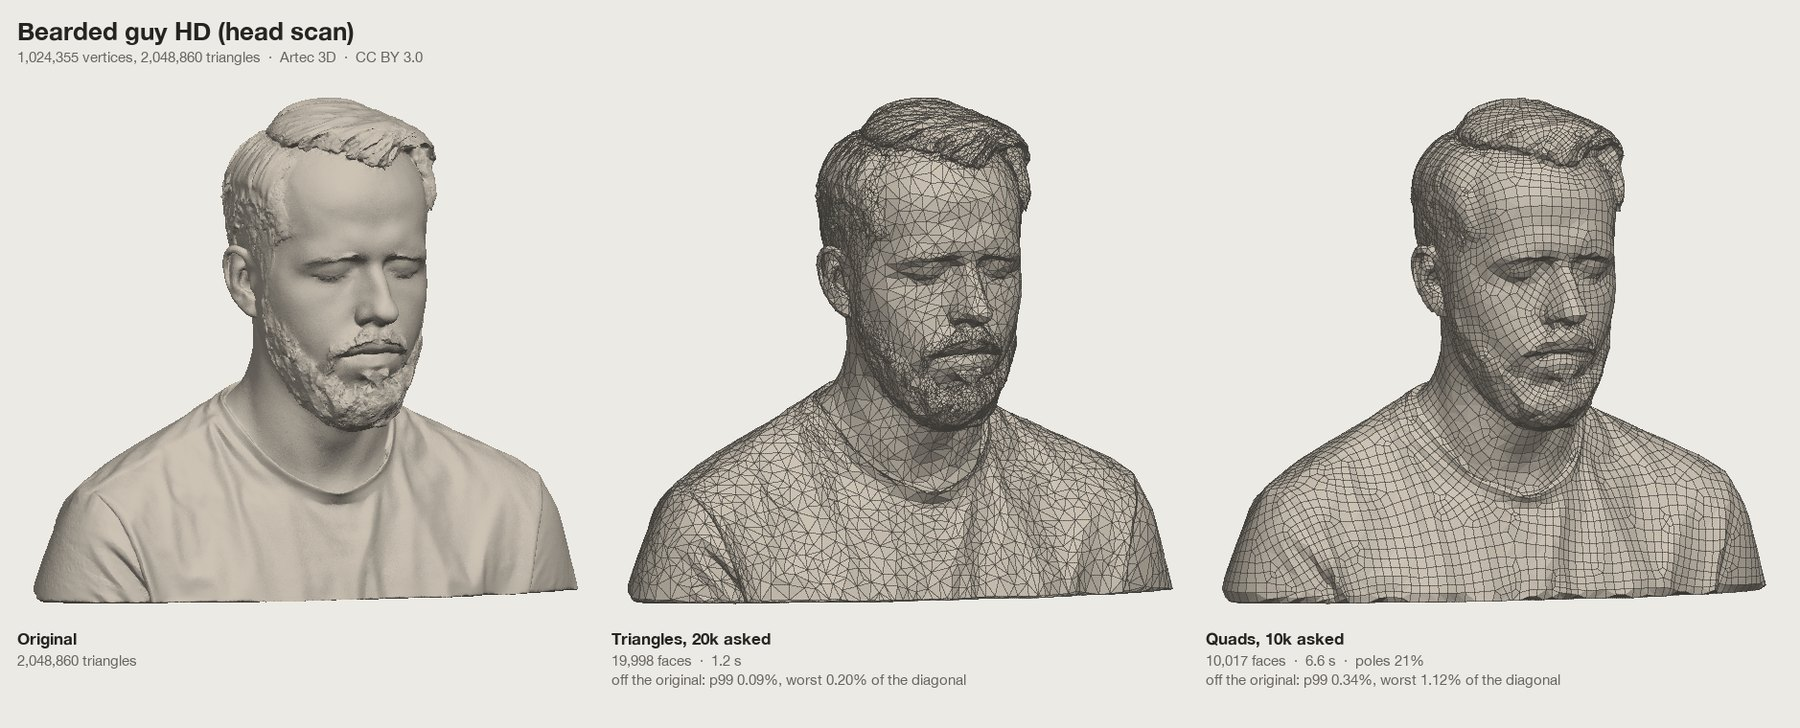
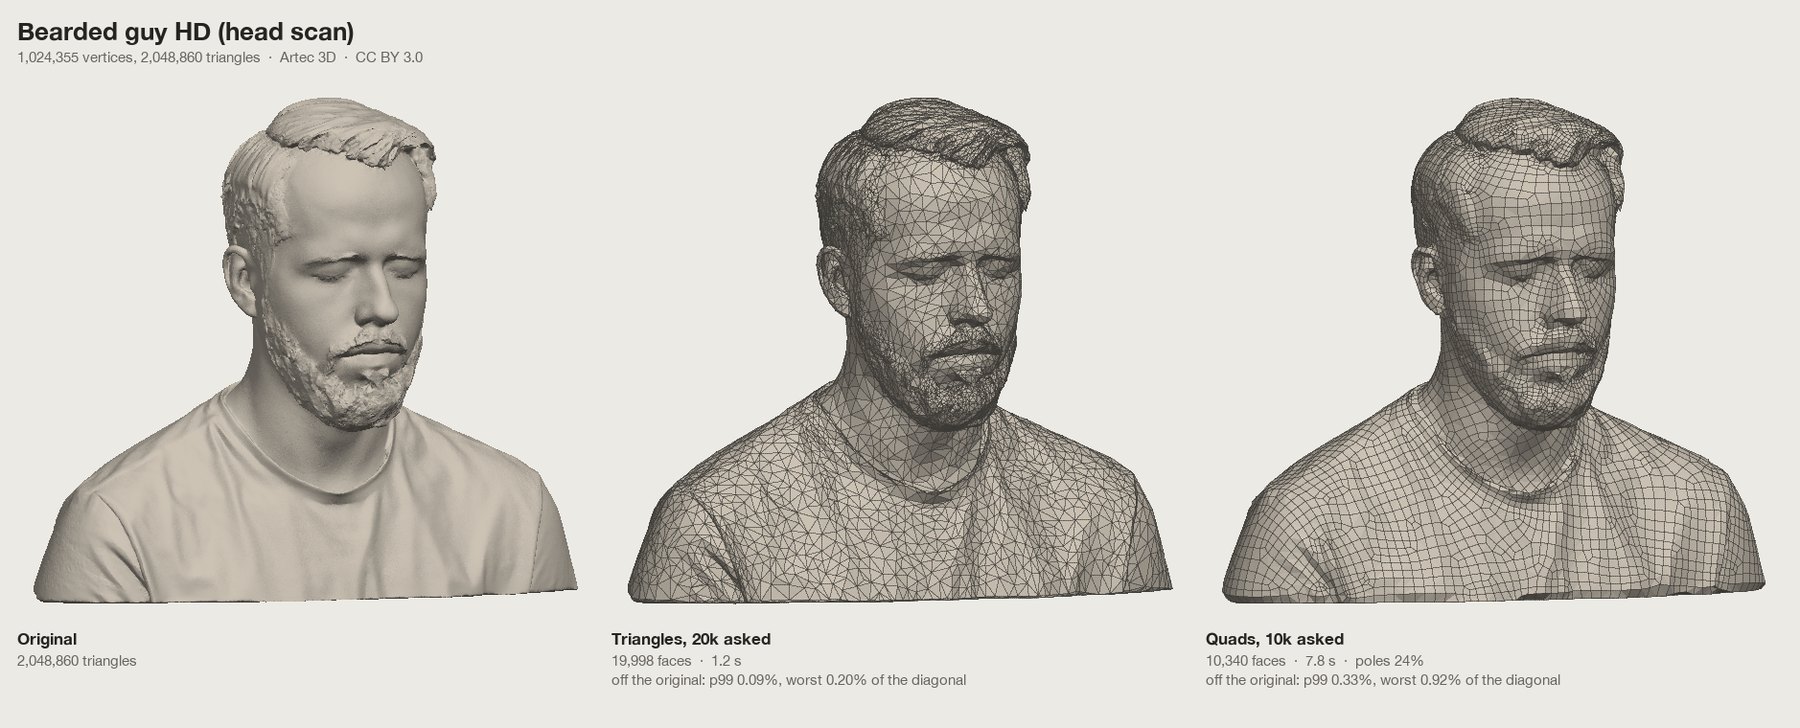
Faster thickness analysis, and the body scan measured
The thickness rays took most of the form analysis on large scans: on the
5M-triangle lion 1.5 s of rays for 93,000 patches. Rays now stop at
0.06 of the square root of the surface area (a part that thick is past
the longest edge 1,700 faces or more would ask for), and a patch stops
after three misses, which already settle its median. Results are
identical on the lion, the body scan and the car; the lion's analysis
takes 3.2 s instead of 4.9 (1.8 s before thickness).

- manifest.json: Blender Studio's realistic female base mesh measured
  (2,709,762 vertices, mirror plane x = -1.34008, checksum pinned).
- README examples redrawn with Keep thin parts on (the default), and the
  timing line updated from the last core bench.

Changed region(s): [[0.6844, 0.1209, 0.9956, 0.8462]]

diff --git a/index.html b/index.html
@@ -3348,13 +3348,18 @@ function formAnalysis(P, index, N, A, opt = {}) {
   const T = index.length / 3, diag = Math.hypot(x1 - x0, y1 - y0, z1 - z0) || 1;
   const rays = new SurfaceGrid(P, index, 2 * Math.sqrt((4 * area) / (Math.sqrt(3) * Math.max(1, T))));
   // Up to five members per cluster, each along its own normal; the median of their hits (a miss counts as none), and no
-  // thickness unless most of them hit: on a scanned beard single rays met the fringes of the noise.
-  const thick = new Float32Array(C), got = new Uint8Array(C), hits = new Float32Array(C * 5);
+  // thickness unless most of them hit: on a scanned beard single rays met the fringes of the noise. Rays stop at 0.06 √area:
+  // a part that thick is thicker than the longest edge 1,700 faces or more would ask for (through a solid statue the rays
+  // ran far and took most of the analysis's time).
+  // Three misses settle the median, so a cluster stops there.
+  const thick = new Float32Array(C), got = new Uint8Array(C), missed = new Uint8Array(C), hits = new Float32Array(C * 5), reach = 0.06 * Math.sqrt(area);
   for (let v = 0; v < V; v++) {
     const c = cl.of[v];
-    if (c < 0 || got[c] >= 5) continue;
+    if (c < 0 || got[c] >= 5 || missed[c] >= 3) continue;
     const l = Math.hypot(N[v * 3], N[v * 3 + 1], N[v * 3 + 2]) || 1;
-    hits[c * 5 + got[c]++] = rays.ray(P[v * 3], P[v * 3 + 1], P[v * 3 + 2], -N[v * 3] / l, -N[v * 3 + 1] / l, -N[v * 3 + 2] / l, 1e-6 * diag, 0.2 * diag, true);
+    const d = rays.ray(P[v * 3], P[v * 3 + 1], P[v * 3 + 2], -N[v * 3] / l, -N[v * 3 + 1] / l, -N[v * 3 + 2] / l, 1e-6 * diag, reach, true);
+    hits[c * 5 + got[c]++] = d;
+    if (d === Infinity) missed[c]++;
   }
   for (let c = 0; c < C; c++) {
     const list = Array.from(hits.subarray(c * 5, c * 5 + got[c])).sort((a, b) => a - b);
@@ -9497,13 +9502,18 @@ function formAnalysis(P, index, N, A, opt = {}) {
   const T = index.length / 3, diag = Math.hypot(x1 - x0, y1 - y0, z1 - z0) || 1;
   const rays = new SurfaceGrid(P, index, 2 * Math.sqrt((4 * area) / (Math.sqrt(3) * Math.max(1, T))));
   // Up to five members per cluster, each along its own normal; the median of their hits (a miss counts as none), and no
-  // thickness unless most of them hit: on a scanned beard single rays met the fringes of the noise.
-  const thick = new Float32Array(C), got = new Uint8Array(C), hits = new Float32Array(C * 5);
+  // thickness unless most of them hit: on a scanned beard single rays met the fringes of the noise. Rays stop at 0.06 √area:
+  // a part that thick is thicker than the longest edge 1,700 faces or more would ask for (through a solid statue the rays
+  // ran far and took most of the analysis's time).
+  // Three misses settle the median, so a cluster stops there.
+  const thick = new Float32Array(C), got = new Uint8Array(C), missed = new Uint8Array(C), hits = new Float32Array(C * 5), reach = 0.06 * Math.sqrt(area);
   for (let v = 0; v < V; v++) {
     const c = cl.of[v];
-    if (c < 0 || got[c] >= 5) continue;
+    if (c < 0 || got[c] >= 5 || missed[c] >= 3) continue;
     const l = Math.hypot(N[v * 3], N[v * 3 + 1], N[v * 3 + 2]) || 1;
-    hits[c * 5 + got[c]++] = rays.ray(P[v * 3], P[v * 3 + 1], P[v * 3 + 2], -N[v * 3] / l, -N[v * 3 + 1] / l, -N[v * 3 + 2] / l, 1e-6 * diag, 0.2 * diag, true);
+    const d = rays.ray(P[v * 3], P[v * 3 + 1], P[v * 3 + 2], -N[v * 3] / l, -N[v * 3 + 1] / l, -N[v * 3 + 2] / l, 1e-6 * diag, reach, true);
+    hits[c * 5 + got[c]++] = d;
+    if (d === Infinity) missed[c]++;
   }
   for (let c = 0; c < C; c++) {
     const list = Array.from(hits.subarray(c * 5, c * 5 + got[c])).sort((a, b) => a - b);

diff --git a/src/quad.js b/src/quad.js
@@ -2326,13 +2326,18 @@ export function formAnalysis(P, index, N, A, opt = {}) {
   const T = index.length / 3, diag = Math.hypot(x1 - x0, y1 - y0, z1 - z0) || 1;
   const rays = new SurfaceGrid(P, index, 2 * Math.sqrt((4 * area) / (Math.sqrt(3) * Math.max(1, T))));
   // Up to five members per cluster, each along its own normal; the median of their hits (a miss counts as none), and no
-  // thickness unless most of them hit: on a scanned beard single rays met the fringes of the noise.
-  const thick = new Float32Array(C), got = new Uint8Array(C), hits = new Float32Array(C * 5);
+  // thickness unless most of them hit: on a scanned beard single rays met the fringes of the noise. Rays stop at 0.06 √area:
+  // a part that thick is thicker than the longest edge 1,700 faces or more would ask for (through a solid statue the rays
+  // ran far and took most of the analysis's time).
+  // Three misses settle the median, so a cluster stops there.
+  const thick = new Float32Array(C), got = new Uint8Array(C), missed = new Uint8Array(C), hits = new Float32Array(C * 5), reach = 0.06 * Math.sqrt(area);
   for (let v = 0; v < V; v++) {
     const c = cl.of[v];
-    if (c < 0 || got[c] >= 5) continue;
+    if (c < 0 || got[c] >= 5 || missed[c] >= 3) continue;
     const l = Math.hypot(N[v * 3], N[v * 3 + 1], N[v * 3 + 2]) || 1;
-    hits[c * 5 + got[c]++] = rays.ray(P[v * 3], P[v * 3 + 1], P[v * 3 + 2], -N[v * 3] / l, -N[v * 3 + 1] / l, -N[v * 3 + 2] / l, 1e-6 * diag, 0.2 * diag, true);
+    const d = rays.ray(P[v * 3], P[v * 3 + 1], P[v * 3 + 2], -N[v * 3] / l, -N[v * 3 + 1] / l, -N[v * 3 + 2] / l, 1e-6 * diag, reach, true);
+    hits[c * 5 + got[c]++] = d;
+    if (d === Infinity) missed[c]++;
   }
   for (let c = 0; c < C; c++) {
     const list = Array.from(hits.subarray(c * 5, c * 5 + got[c])).sort((a, b) => a - b);

diff --git a/README.md b/README.md
@@ -70,7 +70,7 @@ The toggle at the top of the budget picks what comes out; Quads is the default.
 - Normals are taken from the original surface where each new vertex sits (Original or Smooth), or creased at an angle.
 - FBX and OBJ store the faces as quads. GLB can only hold triangles, so it gets two per quad.
 
-Quads mode takes longer than a reduction, with the progress in the result card. For the example models at 10,000 quads it took 5 to 9 seconds, and 3 to 26 seconds for the other test models at 10,000 and 30,000 quads; two torture cases took longer, a restaurant interior of many small parts up to 46 seconds and a ball of hair strands up to 77 (in Node on an Apple M5 Pro).
+Quads mode takes longer than a reduction, with the progress in the result card. For the example models at 10,000 quads it took 6 to 11 seconds, and 3 to 25 seconds for the other test models at 10,000 and 30,000 quads; two torture cases took longer, a restaurant interior of many small parts up to 51 seconds and a ball of hair strands up to 87 (in Node on an Apple M5 Pro).
 
 ### Paint where detail matters
 
